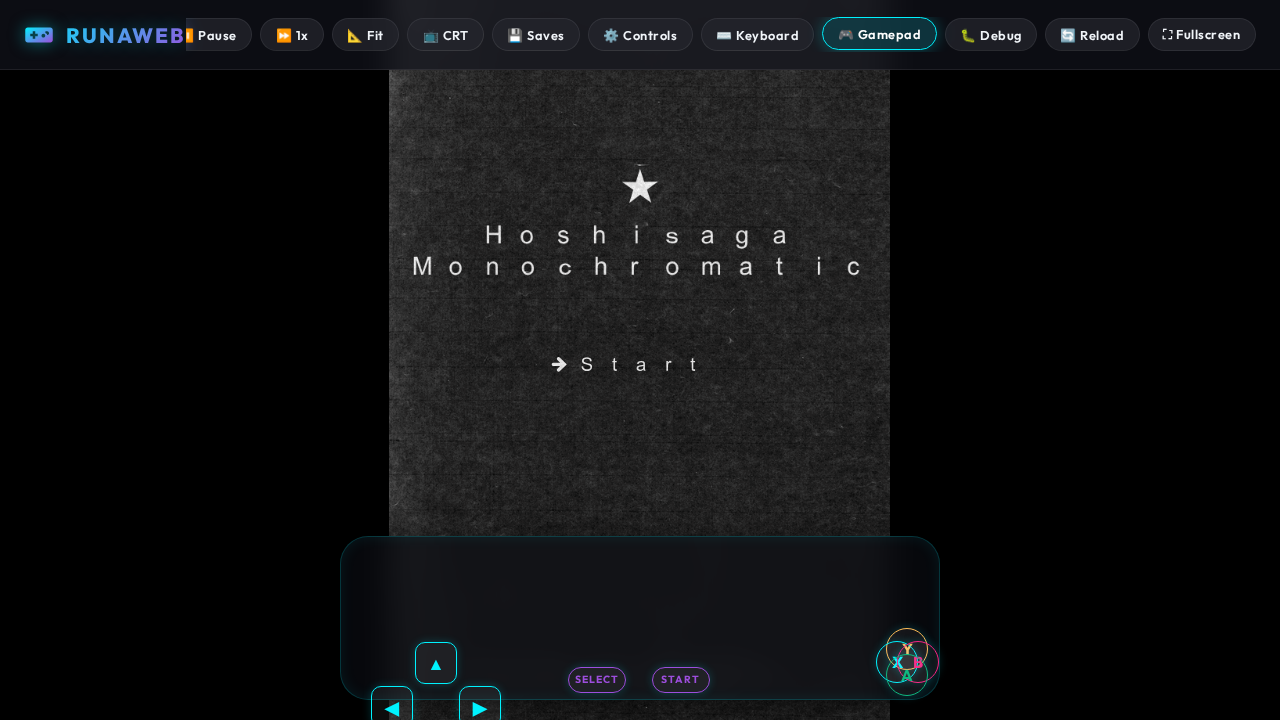
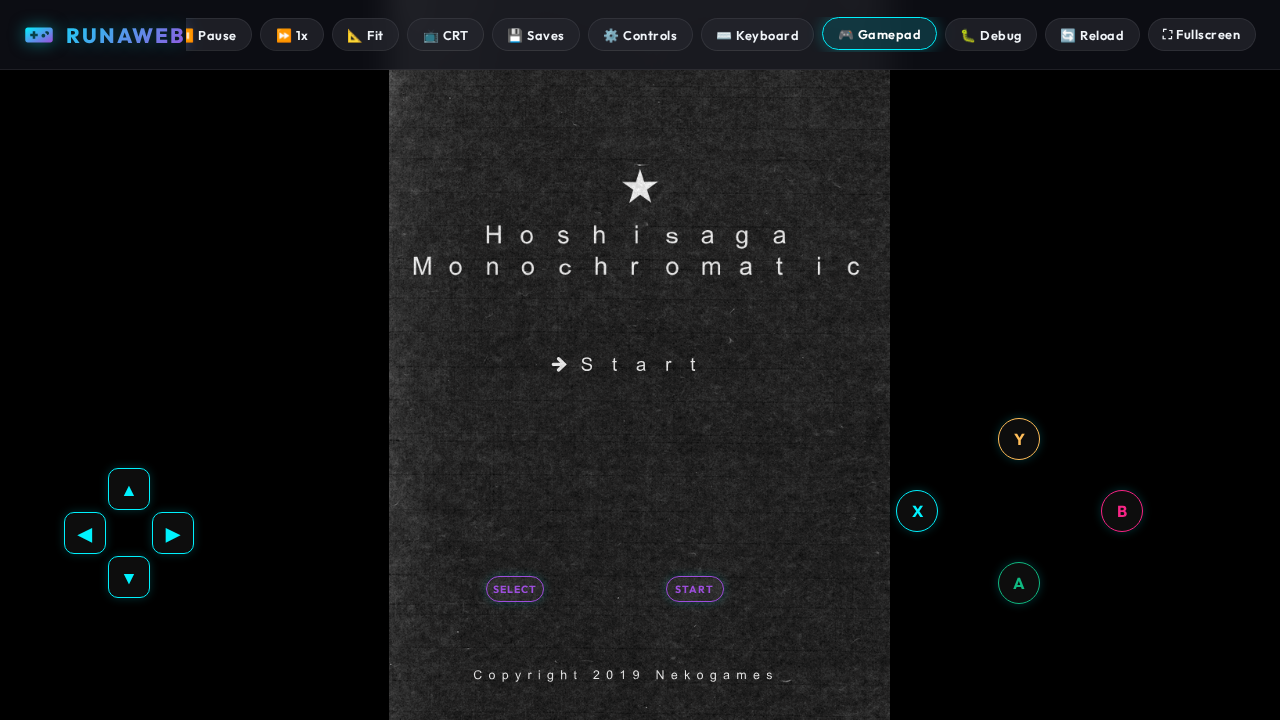
fix: WASM-4 Web Audio restoration and iframe autoplay (#22)
- Added allow="autoplay" attribute to #game-frame in index.html and src/main.ts
- Created host-level master AudioContext bridge on window.__runaAudioContext unlocked via host gestures in src/main.ts
- Updated WASM-4 runtime in src/wasm4.ts to check parent audio context via getAudioContext()
- Added WASM-4 Note Mode (bit 6) MIDI note number to pitch frequency conversion in src/wasm4.ts
- Added unit test coverage for Web Audio host bridge and WASM-4 Note Mode calculations

diff --git a/src/wasm4.ts b/src/wasm4.ts
@@ -111,15 +111,21 @@ export function generateWasm4Html(): string {
       // Web Audio APU Sound Synthesizer Engine
       let audioCtx = null;
 
-      function initAudio() {
-        if (!audioCtx) {
-          const AudioContextClass = window.AudioContext || window.webkitAudioContext;
-          if (AudioContextClass) {
-            audioCtx = new AudioContextClass();
-          }
+      function getAudioContext() {
+        if (window.parent && window.parent.__runaAudioContext) {
+          return window.parent.__runaAudioContext;
         }
-        if (audioCtx && audioCtx.state === 'suspended') {
-          audioCtx.resume().catch(() => {});
+        if (!audioCtx) {
+          const AudioCtx = window.AudioContext || window.webkitAudioContext;
+          if (AudioCtx) audioCtx = new AudioCtx();
+        }
+        return audioCtx;
+      }
+
+      function initAudio() {
+        const ctx = getAudioContext();
+        if (ctx && ctx.state === 'suspended') {
+          ctx.resume().catch(() => {});
         }
       }
 
@@ -131,15 +137,13 @@ export function generateWasm4Html(): string {
       window.addEventListener('message', (e) => {
         if (e.data && e.data.type === 'RUNAWEB_AUDIO_UNLOCK') {
           initAudio();
-          if (audioCtx && audioCtx.state === 'suspended') {
-            audioCtx.resume().catch(() => {});
-          }
         }
       });
 
       const pulseWaveCache = {};
 
       function getPulseWave(duty) {
+        const audioCtx = getAudioContext();
         if (!audioCtx) return null;
         if (pulseWaveCache[duty]) return pulseWaveCache[duty];
 
@@ -163,6 +167,7 @@ export function generateWasm4Html(): string {
       }
 
       function createNoiseBuffer(is7Bit) {
+        const audioCtx = getAudioContext();
         if (!audioCtx) return null;
         const sampleRate = audioCtx.sampleRate || 44100;
         const buffer = audioCtx.createBuffer(1, sampleRate, sampleRate);
@@ -422,10 +427,24 @@ export function generateWasm4Html(): string {
 
           tone(frequency, duration, volume, flags) {
             initAudio();
+            const audioCtx = getAudioContext();
             if (!audioCtx) return;
 
-            const freq1 = frequency & 0xffff;
+            let freq1 = frequency & 0xffff;
             let freq2 = (frequency >> 16) & 0xffff;
+
+            // Bit 6: Note Mode (MIDI Note numbers to Hz)
+            if ((flags & 64) !== 0) {
+              const note1 = frequency & 0xff;
+              const bend1 = (frequency >> 8) & 0xff;
+              freq1 = 440 * Math.pow(2, (note1 - 69 + (bend1 / 256)) / 12);
+
+              if (freq2 > 0) {
+                const note2 = (frequency >> 16) & 0xff;
+                const bend2 = (frequency >> 24) & 0xff;
+                freq2 = 440 * Math.pow(2, (note2 - 69 + (bend2 / 256)) / 12);
+              }
+            }
             if (freq2 === 0) freq2 = freq1;
 
             const sustainFrames = duration & 0xff;

diff --git a/src/main.ts b/src/main.ts
@@ -19,8 +19,29 @@ declare global {
     __runa_orig_raf?: typeof window.requestAnimationFrame;
     __runa_raf_speed_set?: boolean;
     __runa_speed_mult?: number;
+    __runaAudioContext?: AudioContext | null;
   }
 }
+
+let sharedAudioCtx: AudioContext | null = null;
+export function getSharedAudioContext(): AudioContext | null {
+  if (!sharedAudioCtx) {
+    const AudioCtx = window.AudioContext || (window as any).webkitAudioContext;
+    if (AudioCtx) sharedAudioCtx = new AudioCtx();
+  }
+  if (sharedAudioCtx && sharedAudioCtx.state === 'suspended') {
+    sharedAudioCtx.resume().catch(() => {});
+  }
+  return sharedAudioCtx;
+}
+
+// Unlock on real user gestures in host window
+['pointerdown', 'touchstart', 'mousedown', 'keydown'].forEach((evt) => {
+  window.addEventListener(evt, () => getSharedAudioContext(), { passive: true });
+});
+
+// Attach to window so same-origin iframe can access it directly
+(window as any).__runaAudioContext = getSharedAudioContext();
 
 // Internal app storage prefix
 const HOST_APP_KEY_PREFIX = 'runaweb_app_';
@@ -231,6 +252,7 @@ function setupHudControls() {
 
 function unlockIframeAudio() {
   try {
+    getSharedAudioContext();
     if (gameFrame && gameFrame.contentWindow) {
       gameFrame.contentWindow.postMessage({ type: 'RUNAWEB_AUDIO_UNLOCK' }, '*');
     }
@@ -259,6 +281,7 @@ function sendHandshake() {
 
 function configureIframeIsolation() {
   if (gameFrame) {
+    gameFrame.allow = 'autoplay';
     gameFrame.referrerPolicy = 'no-referrer';
     gameFrame.setAttribute('sandbox', 'allow-scripts allow-same-origin allow-pointer-lock allow-forms');
     gameFrame.addEventListener('load', () => {
@@ -798,6 +821,7 @@ async function loadGame(fileMap: Record<string, Uint8Array>, entryPath: string =
   const cleanEntry = normalizePath(entryPath);
   const entryUrl = new URL(`${import.meta.env.BASE_URL}virtual-game/${cleanEntry}`, window.location.origin).href;
   if (gameFrame) {
+    gameFrame.allow = 'autoplay';
     gameFrame.referrerPolicy = 'no-referrer';
     gameFrame.setAttribute('sandbox', 'allow-scripts allow-same-origin allow-pointer-lock allow-forms');
     gameFrame.src = entryUrl;

diff --git a/src/__tests__/wasm4.test.ts b/src/__tests__/wasm4.test.ts
@@ -62,5 +62,16 @@ describe('WASM-4 Engine & Cartridge Unit Tests', () => {
     // Verify ADSR envelopes and stereo panning
     expect(html).toContain('linearRampToValueAtTime');
     expect(html).toContain('createStereoPanner');
+
+    // Verify host audio context bridge & Note Mode support
+    expect(html).toContain('getAudioContext()');
+    expect(html).toContain('window.parent.__runaAudioContext');
+    expect(html).toContain('flags & 64');
+    expect(html).toContain('440 * Math.pow(2, (note1 - 69 + (bend1 / 256)) / 12)');
+
+    // Verify pitch conversion formula calculations
+    const noteModeFreq = (note: number, bend: number = 0) => 440 * Math.pow(2, (note - 69 + (bend / 256)) / 12);
+    expect(noteModeFreq(69, 0)).toBeCloseTo(440, 2); // A4
+    expect(noteModeFreq(60, 0)).toBeCloseTo(261.63, 2); // C4
   });
 });

diff --git a/index.html b/index.html
@@ -1496,6 +1496,7 @@
         <div id="game-wrapper" class="aspect-fit">
           <iframe
             id="game-frame"
+            allow="autoplay"
             sandbox="allow-scripts allow-same-origin allow-pointer-lock allow-forms"
             referrerpolicy="no-referrer"
             title="Virtual Game Window"
